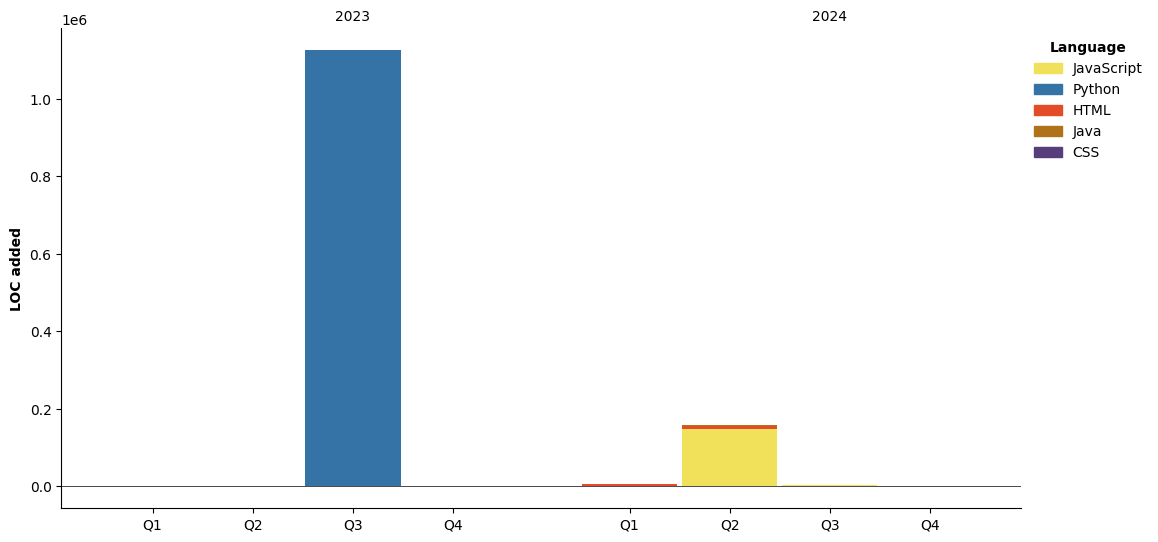
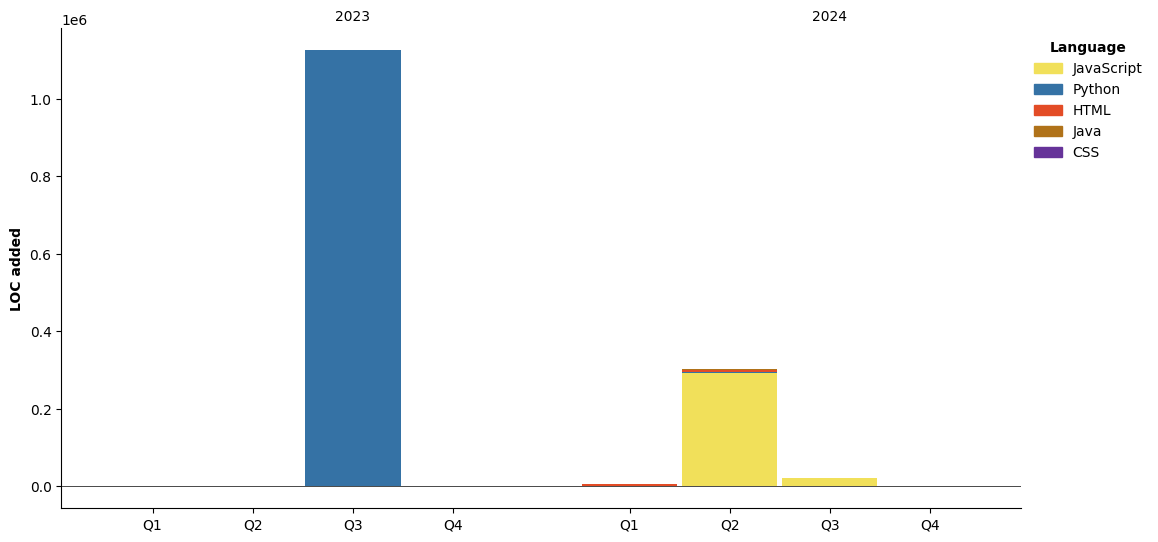
Updated with Dev Metrics

Changed region(s): [[0.5907, 0.679, 0.6839, 0.797], [0.6839, 0.8561, 0.7772, 0.9151], [0.8705, 0.2657, 0.9326, 0.2952]]

diff --git a/README.md b/README.md
@@ -21,11 +21,46 @@
 <!--START_SECTION:waka-->
 ![Code Time](http://img.shields.io/badge/Code%20Time-157%20hrs%2027%20mins-blue?style=flat)
 
-![Lines of code](https://img.shields.io/badge/From%20Hello%20World%20I%27ve%20Written-1.46%20million%20lines%20of%20code-blue?style=flat)
+![Profile Views](http://img.shields.io/badge/Profile%20Views-1-blue?style=flat)
+
+**🐱 My GitHub Data** 
+
+> 📦 145.9 kB Used in GitHub's Storage 
+ > 
+> 🏆 6 Contributions in the Year 2026
+ > 
+> 💼 Opted to Hire
+ > 
+> 📜 32 Public Repositories 
+ > 
+> 🔑 0 Private Repositories 
+ > 
+**I'm a Night 🦉** 
+
+```text
+🌞 Morning                72 commits          ████░░░░░░░░░░░░░░░░░░░░░   17.91 % 
+🌆 Daytime                124 commits         ████████░░░░░░░░░░░░░░░░░   30.85 % 
+🌃 Evening                123 commits         ████████░░░░░░░░░░░░░░░░░   30.60 % 
+🌙 Night                  83 commits          █████░░░░░░░░░░░░░░░░░░░░   20.65 % 
+```
+📅 **I'm Most Productive on Thursday** 
+
+```text
+Monday                   21 commits          █░░░░░░░░░░░░░░░░░░░░░░░░   05.22 % 
+Tuesday                  52 commits          ███░░░░░░░░░░░░░░░░░░░░░░   12.94 % 
+Wednesday                48 commits          ███░░░░░░░░░░░░░░░░░░░░░░   11.94 % 
+Thursday                 148 commits         █████████░░░░░░░░░░░░░░░░   36.82 % 
+Friday                   43 commits          ███░░░░░░░░░░░░░░░░░░░░░░   10.70 % 
+Saturday                 31 commits          ██░░░░░░░░░░░░░░░░░░░░░░░   07.71 % 
+Sunday                   59 commits          ████░░░░░░░░░░░░░░░░░░░░░   14.68 % 
+```
+
 
 📊 **This Week I Spent My Time On** 
 
 ```text
+🕑 Time Zone: Asia/Kolkata
+
 💬 Programming Languages: 
 No Activity Tracked This Week
 
@@ -39,20 +74,12 @@ No Activity Tracked This Week
 No Activity Tracked This Week
 ```
 
-**I Mostly Code in Python** 
+**Timeline**
 
-```text
-Python                   16 repos            ███████████████░░░░░░░░░░   61.54 % 
-JavaScript               4 repos             ████░░░░░░░░░░░░░░░░░░░░░   15.38 % 
-HTML                     3 repos             ███░░░░░░░░░░░░░░░░░░░░░░   11.54 % 
-Java                     2 repos             ██░░░░░░░░░░░░░░░░░░░░░░░   07.69 % 
-CSS                      1 repo              █░░░░░░░░░░░░░░░░░░░░░░░░   03.85 % 
-```
+![Lines of Code chart](https://raw.githubusercontent.com/9OmP/9OmP/main/assets/bar_graph.png)
 
 
-
-
- Last Updated on 23/03/2026 01:07:17 UTC
+ Last Updated on 24/03/2026 19:46:16 UTC
 <!--END_SECTION:waka-->
 
 ![Om's GitHub stats](https://github-readme-stats.vercel.app/api?username=9OmP&show_icons=true&theme=radical)
